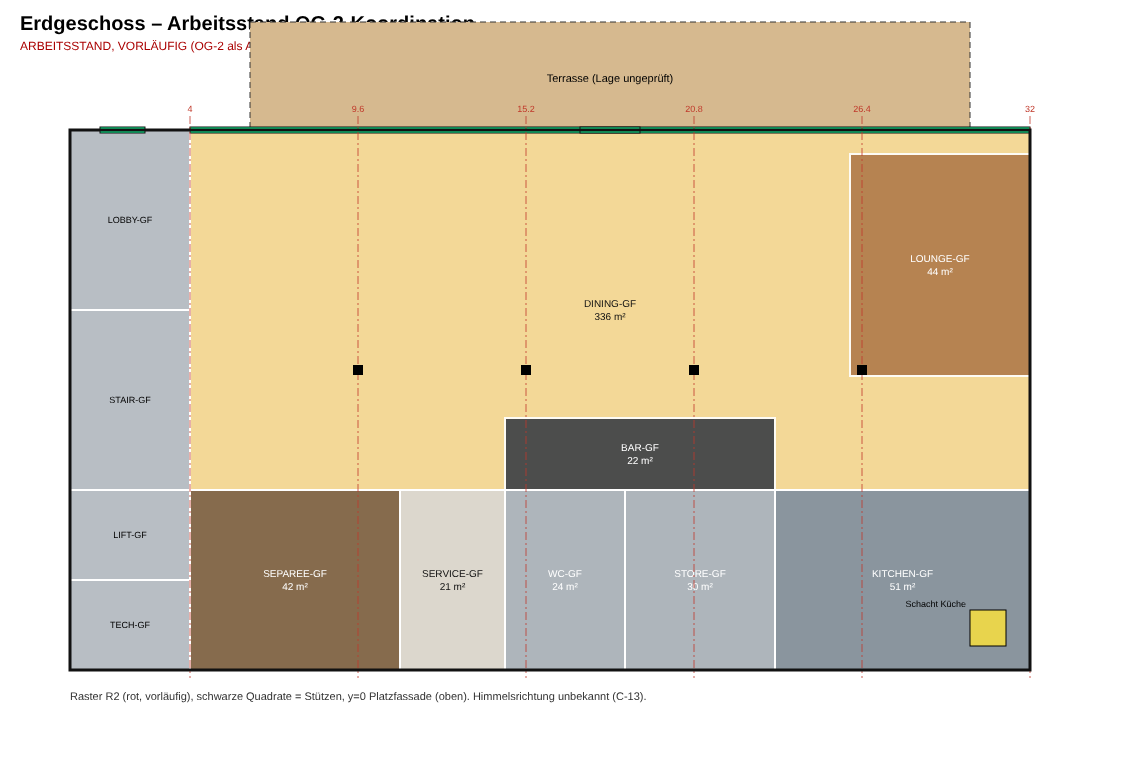
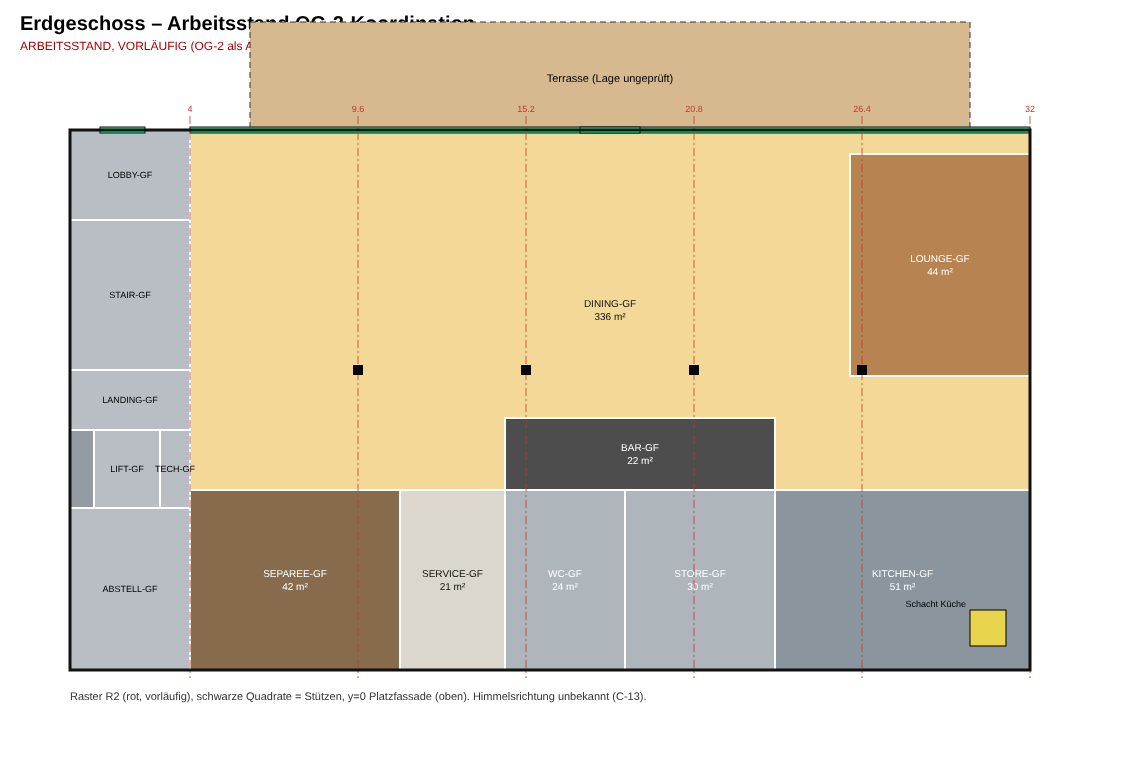
Aufzug/Barrierefreiheit und Nutzbarkeit WE 39 m2: Kern v003, Studie, Konsistenzpruefung, Quellen und offene Punkte
Claude-Session: https://claude.ai/code/session_01HJGZfxHv7bzYyqdLwg8aFJ

diff --git a/praesentation/werlte_master/scripts/unit_study.py b/praesentation/werlte_master/scripts/unit_study.py
@@ -1,0 +1,57 @@
+"""Nutzbarkeitsstudie WE-L1-S (ca. 39 m2 netto): Möblierungs- und Bewegungsflächenprobe, KEINE Grundrissoptimierung auf Wohnungszahl.
+Innenmaße ASSUMED: Fassade 0,45 m, Wohnungstrennwand 0,25 m (halb 0,125 je Seite), Flurwand 0,20 m.
+Koordinaten: x West->Ost, y von der Platzfassade (0) zur Flurwand (D). Richtwerte der Möbel und Bewegungsflächen sind übliche Planungswerte (ASSUMED), keine NBauO-Zitate."""
+import json, os
+here = os.path.dirname(__file__)
+W, D = 5.6 - 0.25, 8.0 - 0.45 - 0.20          # Innenmaße
+F = {  # Möbel / Ausstattung  (x0, y0, x1, y1)
+ "Bett 1,4x2,0": (3.35, 0.35, 5.35, 1.75), "Kleiderschrank 1,2x0,6": (4.15, 3.85, 5.35, 4.45),
+ "Sofa 2,0x0,9": (0.0, 0.9, 0.9, 2.9), "Tisch 0,8x0,8": (1.35, 2.6, 2.15, 3.4),
+ "Küchenzeile 2,4x0,6": (0.0, 4.65, 0.6, 7.05), "Dusche 1,0x1,0": (4.35, 6.35, 5.35, 7.35),
+ "WC 0,5x0,7": (4.85, 5.2, 5.35, 5.9), "Waschtisch 0,6x0,55": (3.1, 6.8, 3.7, 7.35), "Waschmaschine 0,6x0,6": (3.1, 4.55, 3.7, 5.15)}
+Z = {  # freizuhaltende Bewegungsflächen
+ "Balkontür 1,2x1,2": (2.075, 0.0, 3.275, 1.2), "vor Bett (Seite) 0,6": (3.35, 1.75, 5.35, 2.35),
+ "vor Küche 1,2x1,2": (0.6, 5.1, 1.8, 6.3), "Eingang 1,2x1,2": (1.6, 6.15, 2.8, 7.35),
+ "vor Schrank 0,6": (4.15, 3.25, 5.35, 3.85), "vor WC 1,2x1,2": (3.75, 5.15, 4.85, 6.35)}
+R = {"Wohnen/Schlafen (vorn)": (0, 0, W, 4.45), "Flur/Küche": (0, 4.45, 3.0, D), "Bad": (3.0, 4.45, W, D)}
+doors = {"Balkontür": (2.075, 3.275, "front"), "Wohnungstür": (1.9, 2.8, "rear"), "Bad (Schiebetür)": (3.0, "west wall y 5.3-6.2")}
+ov = lambda a, b: a[0] < b[2] and b[0] < a[2] and a[1] < b[3] and b[1] < a[3]
+res = []
+inb = lambda r: r[0] >= -1e-9 and r[1] >= -1e-9 and r[2] <= W + 1e-9 and r[3] <= D + 1e-9
+for n, r in {**F, **Z}.items():
+    if not inb(r): res.append(("FAIL", f"{n} außerhalb der Wohnung"))
+names = list(F)
+for i in range(len(names)):
+    for j in range(i + 1, len(names)):
+        if ov(F[names[i]], F[names[j]]): res.append(("FAIL", f"Möbel überlappen: {names[i]} / {names[j]}"))
+for zn, zr in Z.items():
+    for fn, fr in F.items():
+        if ov(zr, fr): res.append(("FAIL", f"Bewegungsfläche '{zn}' durch '{fn}' blockiert"))
+area = {k: round((v[2] - v[0]) * (v[3] - v[1]), 1) for k, v in R.items()}
+fa = 0.25 * 3.2 * 2.2  # Balkon-Fenstertür grob (1,2 x 2,2) – Fensterfläche nur Näherung
+res.append(("INFO", f"Innenmaß {W:.2f} x {D:.2f} m = {W*D:.1f} m² (Modell netto 39,4 m²); Raumflächen {area}"))
+res.append(("INFO", "Alle Aufenthaltsbereiche liegen an der Platzfassade; Tiefe 7,35 m, Bad und Küchenzeile innenliegend (mechanische Lüftung nötig)"))
+res.append(("INFO", f"Fassadenbreite des Wohn-/Schlafraums {W:.2f} m: eine Fenster-/Balkontür-Achse (Balkon 2,7 m), keine Querlüftung"))
+fails = [r for r in res if r[0] == "FAIL"]
+# ---- SVG
+K = 80; ox = 60; oy = 150
+o = [f'<svg xmlns="http://www.w3.org/2000/svg" width="{int(ox*2+W*K+520)}" height="{int(oy+D*K+110)}" font-family="Arial"><rect width="100%" height="100%" fill="white"/>',
+     '<text x="20" y="28" font-size="18" font-weight="bold">Nutzbarkeitsprobe WE-L1-S (39 m² netto) – Arbeitsstand, keine Freigabe</text>',
+     '<text x="20" y="48" font-size="11" fill="#a00">Möblierungsprobe zur Prüfung der Eigenständigkeit. Keine Grundrisse zur Maximierung der Wohnungszahl. Maße ASSUMED.</text>',
+     f'<text x="{ox}" y="{oy-12}" font-size="11">Platzfassade (Fenster/Balkon) – y = 0</text>']
+col = {"Wohnen/Schlafen (vorn)": "#F7E9D0", "Flur/Küche": "#EEE6DA", "Bad": "#D6E6EC"}
+for n, r in R.items():
+    o.append(f'<rect x="{ox+r[0]*K}" y="{oy+r[1]*K}" width="{(r[2]-r[0])*K}" height="{(r[3]-r[1])*K}" fill="{col[n]}" stroke="#999"/><text x="{ox+(r[0]+r[2])/2*K}" y="{oy+r[1]*K+14}" font-size="10" text-anchor="middle" fill="#555">{n} {area[n]} m²</text>')
+for n, r in Z.items():
+    o.append(f'<rect x="{ox+r[0]*K}" y="{oy+r[1]*K}" width="{(r[2]-r[0])*K}" height="{(r[3]-r[1])*K}" fill="#9bd" opacity="0.3" stroke="#46a" stroke-dasharray="3 3"/>')
+for n, r in F.items():
+    o.append(f'<rect x="{ox+r[0]*K}" y="{oy+r[1]*K}" width="{(r[2]-r[0])*K}" height="{(r[3]-r[1])*K}" fill="#B08968" stroke="#333"/><text x="{ox+(r[0]+r[2])/2*K}" y="{oy+(r[1]+r[3])/2*K+3}" font-size="8" text-anchor="middle" fill="#fff">{n.split()[0]}</text>')
+o.append(f'<rect x="{ox}" y="{oy}" width="{W*K}" height="{D*K}" fill="none" stroke="#111" stroke-width="4"/>')
+o.append(f'<rect x="{ox+2.075*K}" y="{oy-4}" width="{1.2*K}" height="8" fill="#1F9" stroke="#111"/><rect x="{ox+1.9*K}" y="{oy+D*K-4}" width="{0.9*K}" height="8" fill="#e90" stroke="#111"/>')
+o.append(f'<rect x="{ox+1.325*K}" y="{oy-1.5*K}" width="{2.7*K}" height="{1.5*K}" fill="#CFD3D6" stroke="#333" stroke-dasharray="4 3" opacity="0.7"/><text x="{ox+2.675*K}" y="{oy-0.6*K}" font-size="10" text-anchor="middle">Balkon 2,7 x 1,5</text>')
+for i, (st, t) in enumerate(res):
+    o.append(f'<text x="{ox+W*K+20}" y="{oy+16+i*15}" font-size="10" fill="{"#a00" if st=="FAIL" else "#333"}">{st}: {t[:130]}</text>')
+o.append(f'<text x="{ox}" y="{oy+D*K+30}" font-size="10" fill="#333">blau gestrichelt = Bewegungsflächen, grün = Balkontür (Balkon 2,7 m, Mitte x 2,675), orange = Wohnungstür vom Mittelgang</text></svg>')
+open(os.path.join(here, "..", "plans", "unit_WE-L1-S_nutzbarkeit.svg"), "w", encoding="utf-8").write("\n".join(o))
+print(len(fails), "FAIL")
+for s in res: print(s)

diff --git a/praesentation/werlte_master/scripts/build_design.py b/praesentation/werlte_master/scripts/build_design.py
@@ -11,7 +11,7 @@ def room(id_, typ, level, x0, y0, x1, y1, status="P", **kw):
     return d
 
 D = {
-    "model": "NEUE_MITTE_MASTER_DRAFT_A_002",
+    "model": "NEUE_MITTE_MASTER_DRAFT_A_003",
     "decision": "Variante A verbindlich (Auftraggeber, 22.10.2026). Nachweis der Grundfläche 576 m² steht aus (Konflikt C-01).",
     "units": "m", "origin": "SW-Ecke Gebäude, x West nach Ost, y Platzfassade nach hinten",
     "site": {"area_m2": 960, "grz": 0.6, "footprint_max_theoretical_m2": 576, "envelope_estimate_m2": "400-460 (PROVISIONAL, nicht gemessen)"},
@@ -89,9 +89,9 @@ D["grid"] = {"x": D["grid_options"]["R2"]["x"], "y": [0.0, 8.0, 18.0], "note": "
 D["columns_gf"] = [[x, 8.0] for x in (9.6, 15.2, 20.8, 26.4)]
 D["facade_support"] = {"status": S["R"], "note": "Die OG-Last der Platzfassade (28 m Glasfront) braucht Fassadenstützen oder einen Träger; vollverglaste Front ohne Stützen ist nicht nachgewiesen (C-16). Annahme im Modell: Stützen 0,3 m in Rasterachsen R2 an y=0, noch nicht eingezeichnet.", "candidate_axes_x": D["grid_options"]["R2"]["x"]}
 D["core"] = {
-    "GF": [{"id": "LOBBY-GF", "rect": [0, 0, 4, 6], "status": S["A"]}, {"id": "STAIR-GF", "rect": [0, 6, 4, 12], "status": S["A"]}, {"id": "LIFT-GF", "rect": [0, 12, 4, 15], "status": S["A"]}, {"id": "TECH-GF", "rect": [0, 15, 4, 18], "status": S["A"]}],
-    "L1": [{"id": "RESERVE-L1", "rect": [0, 0, 4, 6], "status": S["A"], "note": "Abstell/Technik, Zweck offen"}, {"id": "STAIR-L1", "rect": [0, 6, 4, 12], "status": S["A"]}, {"id": "LIFT-L1", "rect": [0, 12, 4, 15], "status": S["A"]}, {"id": "TECH-L1", "rect": [0, 15, 4, 18], "status": S["A"]}],
-    "L2": [{"id": "STAIR-L2", "rect": [0.8, 6, 4.0, 12], "status": S["A"]}, {"id": "LIFT-L2", "rect": [0.8, 12, 4.0, 15], "status": S["A"]}]}
+    "GF": [{"id": "LOBBY-GF", "rect": [0, 0, 4, 3], "status": S["A"], "note": "Eingang x 1–2,5, Briefkästen"}, {"id": "STAIR-GF", "rect": [0, 3, 4, 8], "status": S["A"]}, {"id": "LANDING-GF", "rect": [0, 8, 4, 10], "status": S["A"], "note": "Aufzugsvorraum, liegt auf Höhe des Mittelgangs"}, {"id": "LIFT-GF", "rect": [0.8, 10, 3.0, 12.6], "status": S["A"]}, {"id": "TECH-GF", "rect": [3.0, 10, 4, 12.6], "status": S["A"]}, {"id": "ABSTELL-GF", "rect": [0, 12.6, 4, 18], "status": S["A"], "note": "Fahrrad/Müll/Abstellräume, Zweck offen"}],
+    "L1": [{"id": "RESERVE-L1", "rect": [0, 0, 4, 3], "status": S["A"], "note": "Zweck offen"}, {"id": "STAIR-L1", "rect": [0, 3, 4, 8], "status": S["A"]}, {"id": "LANDING-L1", "rect": [0, 8, 4, 10], "status": S["A"]}, {"id": "LIFT-L1", "rect": [0.8, 10, 3.0, 12.6], "status": S["A"]}, {"id": "TECH-L1", "rect": [3.0, 10, 4, 12.6], "status": S["A"]}, {"id": "ABSTELL-L1", "rect": [0, 12.6, 4, 18], "status": S["A"]}],
+    "L2": [{"id": "STAIR-L2", "rect": [0.8, 3, 4.0, 8], "status": S["A"]}, {"id": "LANDING-L2", "rect": [0.8, 8, 4.0, 10], "status": S["A"]}, {"id": "LIFT-L2", "rect": [0.8, 10, 3.0, 12.6], "status": S["A"], "note": "Schacht auf allen Ebenen x 0,8–3,0: Westwand liegt auf der Staffel-Rückversatzlinie; Überfahrt über Attika offen (C-25)"}]}
 D["shafts"] = [{"id": "SHAFT-KITCHEN", "rect": [30.0, 16.0, 31.2, 17.2], "levels": ["GF", "L1", "L2", "ROOF"], "status": S["P"], "note": "Küchenabluft; durchläuft Büro/Wohnung N1 (L1) und Staffel-N3 (L2): Geruch, Schall, Brandschutz (C-14)"}]
 BW, BD = 2.7, 1.5
 bal = []

diff --git a/praesentation/werlte_master/scripts/validate_consistency.py b/praesentation/werlte_master/scripts/validate_consistency.py
@@ -39,6 +39,19 @@ add("Oberstes Geschoss FFL", "INFO", "Staffel-FFL 6,5 m (< 7 m) → Gebäudeklas
 add("Gaststätte Plätze", "OPEN", "190 innen + 60 Terrasse; Sonderbau/Versammlungsstätte-Schwelle prüfen (C-20)")
 add("Fassadenstützen EG", "OPEN", "Platzfassade 28 m ohne Stütze nicht nachgewiesen; Modell nimmt Stützen in R2-Achsen an, noch nicht gezeichnet (C-16)")
 add("Rückseitiger Balkon über y = 18", "OPEN", "Rückseite nicht Teil des eingefrorenen Designs; Grenzabstand unbekannt (C-19)")
+
+core = D["core"]
+lift = {lv: next(c for c in core[lv] if c["id"].startswith("LIFT")) for lv in ("GF", "L1", "L2")}
+add("Aufzug übereinander (GF, L1, L2)", "PASS" if len({tuple(v["rect"]) for v in lift.values()}) == 1 else "FAIL", f"{lift['GF']['rect']} auf allen Ebenen")
+lg = {lv: next(c for c in core[lv] if c["id"].startswith("LANDING")) for lv in ("GF", "L1", "L2")}
+corr = og["CORR-L1"]["rect"]
+touch = lg["L1"]["rect"][2] == corr[0] and lg["L1"]["rect"][1] >= corr[1] - 1e-9 and lg["L1"]["rect"][3] <= corr[3] + 1e-9
+add("Aufzugsvorraum stößt an Mittelgang (L1)", "PASS" if touch else "FAIL", f"Vorraum {lg['L1']['rect']}, Gang {corr[:2]}–{corr[2:]}; Gang 2,0 m breit")
+lr = lift["L1"]["rect"]; add("Aufzugsschacht Größe", "OPEN", f"{lr[2]-lr[0]:.1f} x {lr[3]-lr[1]:.1f} m; Fahrkorb-Größe (z. B. 1,1 x 1,4 m) und Typ (Bettentransport) fachlich offen")
+add("Aufzug erreicht alle Wohn- und Gewerbeebenen", "PASS", "EG, 1. OG, Staffel; Gastro-Küche/Büros über Mittelgang bzw. Kern erreichbar")
+add("Aufzugsüberfahrt gegen Attika", "OPEN", "Staffel-FFL 6,5 m + üblicher Überfahrtsbedarf liegt nahe/über Attika 9,9 m; sichtbarer Aufbau wäre eine Designfrage (C-25)")
+add("Stufenloser Zugang Wohnungseingang West (x 1–2,5)", "OPEN", "Gelände- und Platzhöhen unbekannt, keine Schwellen/Rampen im Modell")
+add("Balkontür-Schwellen", "OPEN", "Betonbalkon-Detail im Design nicht definiert; Anschlusshöhe/Schwellenfreiheit offen")
 md = ["# Konsistenzprüfung Arbeitsbasis OG-2 (nur Geometrie, vorläufig)", "", "| Prüfung | Ergebnis | Detail |", "|---|---|---|"] + [f"| {a} | {b} | {c} |" for a, b, c in rows]
 open(os.path.join(here, "..", "validation", "consistency_OG2.md"), "w", encoding="utf-8").write("\n".join(md) + "\n")
 print("\n".join(md))

diff --git a/praesentation/werlte_master/documentation/architektur_anforderungen_aufzug_barrierefreiheit_wohnungen.md b/praesentation/werlte_master/documentation/architektur_anforderungen_aufzug_barrierefreiheit_wohnungen.md
@@ -1,0 +1,47 @@
+# Architektonische Anforderungen: Aufzug, Barrierefreiheit, Nutzbarkeit der ca. 39-m²-Wohnungen
+Arbeitsstand OG-2 (VORLÄUFIG, 22.10.2026). Keine Förderthemen, keine Designänderung, keine Renderings. **Es wird keine baurechtliche Zulässigkeit behauptet.** Alle Aussagen zum Recht stammen aus Suchtreffern, nicht aus dem amtlichen Volltext (NI-VORIS und NBank-Seiten konnten von der Umgebung nicht abgerufen werden).
+
+## 1. Aufzug und barrierefreie Erschließung
+### 1.1 Quellenlage (Status je Aussage)
+| Aussage | Quelle | Status |
+|---|---|---|
+| Wird ein Gebäude mit mehr als vier Wohnungen errichtet, müssen die Wohnungen barrierefrei sein (§ 49 Abs. 1 NBauO); Neubau mit 13 Wohnungen fällt in diesen Bereich | [§ 49 NBauO, VORIS](https://voris.wolterskluwer-online.de/browse/document/c84955d0-4e6b-36bc-a242-7e40f3107d02); [Haufe](https://www.haufe.de/id/norm/bauordnung-niedersachsen-49-barrierefreie-zugaenglichkeit-und-benutzbarkeit-baulicher-anlagen-HI3049642_p49.html); [nullbarriere](https://nullbarriere.de/bauordnung-niedersachsen.htm) | Suchtreffer, Wortlaut nicht geprüft |
+| Aufzugspflicht nach § 38 Abs. 2 NBauO erst bei Aufenthaltsräumen mit Fußboden mehr als 12,25 m über der Eingangsebene; Staffel-FFL liegt bei 6,5 m | [MW Niedersachsen FAQ NBauO](https://www.mw.niedersachsen.de/download/209290), [Aufzugspflicht 2026](https://www.personenaufzuege.com/ratgeber/aufzugspflicht/) | Suchtreffer; daraus folgt voraussichtlich KEINE Pflicht zur Herstellung, aber ungeklärt |
+| Stufenlose Erreichbarkeit höherer Geschosse muss im Entwurf nachweisbar dargestellt sein, auch wo kein Aufzug gebaut werden muss | [bfb Aufzüge Niedersachsen](https://www.bfb-barrierefrei-bauen.de/aufzuege-niedersachsen) | Suchtreffer, ab welchem Geschoss ist unklar (Formulierung „ab dem zweiten oberirdischen Geschoss") |
+| Jede achte Wohnung rollstuhlgerecht; Rundung bei 13 Wohnungen (1,6) nicht geklärt | [nullbarriere](https://nullbarriere.de/bauordnung-niedersachsen.htm), [TÜV SÜD Barrierefreiheit im Wohnungsbau](https://www.tuvsud.com/de-de/-/media/de/industry-service/pdf/netinform/bautechnik-2024/barrierefreiheit-im-wohnungsbau.pdf) | Suchtreffer |
+| Novelle: Kabinettsentwurf sieht u. a. Streichung eines Satzes in § 49 Abs. 1 (Aufzug zu barrierefreien Wohnungen) vor; Stand der Verabschiedung unbekannt | [Staatskanzlei](https://www.stk.niedersachsen.de/startseite/presseinformationen/kabinett-gibt-entwurf-der-novelle-der-niedersachsischen-bauordnung-zur-verbandsbeteiligung-frei-bauen-soll-leichter-schneller-und-gunstiger-werden-227757.html), [Synopse](https://www.mw.niedersachsen.de/download/202157/Synopse_NBauO_GE-NBauO_Auszug.pdf) | UNBESTÄTIGT, aktueller Wortlaut prüfen |
+| Technische Ausführung: DIN 18040-2 (Wohnungen), Arbeitshilfe des Landes | [NLBL Arbeitshilfe](https://www.nlbl.niedersachsen.de/download/156579/Arbeitshilfe_fuer_das_barrierefreie_Bauen.pdf), [bfb Eingeführte Technische Baubestimmungen](https://www.bfb-barrierefrei-bauen.de/niedersachsen) | Einführung als technische Baubestimmung zu prüfen |
+| Gastro und Büros (öffentlich zugänglich) unterliegen eigenen Anforderungen des § 49 | nicht abgerufen | OFFEN, nicht bewertet |
+
+### 1.2 Entscheidung für den Entwurf
+Der Aufzug bleibt bis zur fachlichen Klärung im Entwurf (Auftraggeber). Rechtliche Notwendigkeit ist NICHT belegt; er dient der stufenlosen Erreichbarkeit aller Wohnungen, Büros und des Staffelgeschosses.
+
+### 1.3 Geometrische Prüfung am Arbeitsstand (v003, siehe `validation/consistency_OG2.md`)
+- **Mangel im Arbeitsstand v002 (selbst verursacht, nun korrigiert, C-24):** Der Aufzug lag hinter dem Treppenraum und war vom Mittelgang nicht direkt erreichbar. Kern in v003 neu geordnet: Lobby (y 0–3), Treppenraum (y 3–8), Aufzugsvorraum (y 8–10, stößt an den Mittelgang), Aufzug x 0,8–3,0 / y 10–12,6, dahinter Technik und Abstellraum. Alle ASSUMED.
+- Aufzug liegt auf GF, 1. OG und Staffel übereinander; Schacht 2,2 × 2,6 m ist großzügig. Fahrkorbgröße und -typ (z. B. 1,1 × 1,4 m) sind fachlich offen.
+- **C-25:** Schacht ab x 0,8, damit die Westwand mit der Staffel-Rückversatzlinie fluchtet. Überfahrt über Attika (9,9 m) kann einen sichtbaren Aufbau erzeugen, das wäre eine Designfrage und wird nicht still gelöst.
+- Mittelgang 2,0 m breit; Vorraum 4,0 × 2,0 m. Eingang West x 1–2,5 m (1,5 m breit); Gelände-/Platzhöhen unbekannt, daher stufenloser Zugang nicht nachgewiesen.
+- Balkone: Schwellenfreiheit der Balkontüren bei Betonbalkon nicht geklärt.
+- **Rollstuhlgerechte Wohnung (R):** mindestens eine, evtl. zwei; die 39-m²-Wohnungen kommen nach heutiger Einschätzung dafür kaum in Frage. Kandidaten wären WE-L1-N1 (ca. 52 m²) oder eine Staffel-Nordwohnung (ca. 57 m², Aufzug erreichbar). Nicht nachgewiesen, Fachplaner prüft Bewegungsflächen.
+- Offene Punkte: Aufzug im Brandfall (Treppenraum und Aufzug getrennt?), Feuerwehraufzug nicht angenommen, Gastro-WC barrierefrei.
+
+## 2. Nutzbarkeit der Wohnungen ca. 39 m² netto (WE-L1-S1…S5)
+Datei: `plans/unit_WE-L1-S_nutzbarkeit.png`, Skript `scripts/unit_study.py`. Innenmaß ca. 5,35 × 7,35 m (ASSUMED Wandstärken). Probe mit Bett 1,4 × 2,0, Sofa, Tisch, Küchenzeile 2,4 m, Schrank, Dusche, WC, Waschtisch, Waschmaschine und freien Bewegungsflächen: **keine Überlappungen, keine blockierten Bewegungsflächen**.
+
+**Befund (kein Rechtsurteil):**
+- Sinnvoll und eigenständig nutzbar als **Studio-Wohnung (Einzimmer mit Schlafbereich, Küche, Bad)** für 1 Person, mit Einschränkung 2 Personen. Kein separates Schlafzimmer möglich: ein zweiter Raum würde zwei ca. 2,6 m breite Räume an der Fassade ergeben.
+- Wohn-/Schlafraum 23,8 m², Flur/Küche 8,7 m², Bad 6,8 m² (großzügig, kann um ca. 1 m² zugunsten Abstellnische verkleinert werden).
+- Einseitige Belichtung: nur eine Fassadenachse zum Platz (Balkontür); Küche und Bad innenliegend, mechanische Lüftung nötig, keine Querlüftung.
+- Lage: alle Aufenthaltsbereiche und Balkone liegen über der Gastro-Terrasse (60 Plätze) und der Bar. Lärm am Schlafplatz bis in die Nacht ist ein Nutzungsrisiko (Schallschutz, Betriebszeiten, Himmelsrichtung C-13), nicht geprüft.
+- Kein Abstellraum in der Wohnung, nur Kern-Abstellflächen (ABSTELL-GF/L1, 21,6 m² je Ebene, Zweck offen).
+- Wohnungstür liegt am Mittelgang; Brüstungshöhe, Fensterflächen und Tageslichtnachweis nicht geprüft.
+- Das Ergebnis begründet keine Erhöhung der Wohnungszahl; die Zahl bleibt eine Folge des Entwurfs (5 Balkonachsen).
+- Größere Typen: WE-L1-N1 (52 m²) gut als 2-Zimmer, Staffel hinten (57 m²) als 2-Zimmer mit Möglichkeit R; Staffel vorn (ca. 43 m²) wie Studio. Nicht einzeln durchgeplant.
+
+## 3. Offene Anforderungen, die vor Freigabe geklärt werden müssen
+1. Aktueller Wortlaut § 49 und § 38 NBauO (VORIS) einschließlich Novelle; Zahl der R-Wohnungen (Rundung).
+2. Fahrkorbgröße und Aufzugstyp; Überfahrt/Aufbau (C-25).
+3. Stufenloser Zugang (Gelände/Platzhöhen), Balkonschwellen.
+4. Brandschutz Aufzug/Treppenraum; Rettungsweg im Mittelgang (C-15).
+5. Mindestanforderungen an Wohnungen (Fensterflächen, Belüftung innenliegender Räume, lichte Höhen) nach NBauO/DVO und DIN 18040-2 prüfen und gegenzeichnen lassen.
+6. Schallschutz und Betriebskonzept Gastro gegenüber den Wohnungen.

diff --git a/praesentation/werlte_master/validation/consistency_OG2.md b/praesentation/werlte_master/validation/consistency_OG2.md
@@ -18,3 +18,10 @@
 | Gaststätte Plätze | OPEN | 190 innen + 60 Terrasse; Sonderbau/Versammlungsstätte-Schwelle prüfen (C-20) |
 | Fassadenstützen EG | OPEN | Platzfassade 28 m ohne Stütze nicht nachgewiesen; Modell nimmt Stützen in R2-Achsen an, noch nicht gezeichnet (C-16) |
 | Rückseitiger Balkon über y = 18 | OPEN | Rückseite nicht Teil des eingefrorenen Designs; Grenzabstand unbekannt (C-19) |
+| Aufzug übereinander (GF, L1, L2) | PASS | [0.8, 10, 3.0, 12.6] auf allen Ebenen |
+| Aufzugsvorraum stößt an Mittelgang (L1) | PASS | Vorraum [0, 8, 4, 10], Gang [4, 8]–[32, 10]; Gang 2,0 m breit |
+| Aufzugsschacht Größe | OPEN | 2.2 x 2.6 m; Fahrkorb-Größe (z. B. 1,1 x 1,4 m) und Typ (Bettentransport) fachlich offen |
+| Aufzug erreicht alle Wohn- und Gewerbeebenen | PASS | EG, 1. OG, Staffel; Gastro-Küche/Büros über Mittelgang bzw. Kern erreichbar |
+| Aufzugsüberfahrt gegen Attika | OPEN | Staffel-FFL 6,5 m + üblicher Überfahrtsbedarf liegt nahe/über Attika 9,9 m; sichtbarer Aufbau wäre eine Designfrage (C-25) |
+| Stufenloser Zugang Wohnungseingang West (x 1–2,5) | OPEN | Gelände- und Platzhöhen unbekannt, keine Schwellen/Rampen im Modell |
+| Balkontür-Schwellen | OPEN | Betonbalkon-Detail im Design nicht definiert; Anschlusshöhe/Schwellenfreiheit offen |

diff --git a/praesentation/werlte_master/documentation/source_conflict_register.md b/praesentation/werlte_master/documentation/source_conflict_register.md
@@ -42,3 +42,8 @@ Die Spalten folgen der Tabelle oben; "Status" gilt durchgehend als offen, bis au
 
 Offene baurechtliche Fragen sind gesammelt in `planning/baurechtliche_fragen.md`, Förderfragen getrennt in `foerderung/klaerung_wohnraumfoerderstelle.md`.
 
+| C-24 | Arbeitsstand v002: Aufzug hinter Treppenraum | Barrierefreie Erschließung braucht direkten Zugang vom Mittelgang | Aufzug war nur über den Treppenraum erreichbar (eigener Mangel) | Kern, Mittelgang | Kern v003 neu geordnet, Aufzugsvorraum am Mittelgang; Aufzug im Entwurf belassen, Notwendigkeit nicht belegt | Fachplaner |
+| C-25 | Aufzugsschacht übereinander | Staffel 0,8 m zurückgesetzt, Attika 9,9 m | Schacht ab x 0,8; Überfahrt über Attika könnte Aufbau erzeugen | Dach, Fassade West | nicht gelöst, Designfrage | Auftraggeber, Aufzugsplaner |
+| C-26 | Wohnung 39 m² einseitig belichtet über Gastro-Terrasse | Nutzung als Studio für 1 Person | Schall, Querlüftung, keine Abstellfläche | Wohnungsqualität | Studie `unit_WE-L1-S_nutzbarkeit`, keine Zahl erhöht | Auftraggeber |
+| C-27 | § 49 NBauO: jede achte Wohnung rollstuhlgerecht (Suchtreffer) | 13 Wohnungen, kleinste 39 m² | Kandidaten nur N1 (52 m²) und Staffel-Nord (57 m²), Nachweis fehlt | Wohnungsmix | Fachplaner, Rundung klären | Fachplaner |
+
